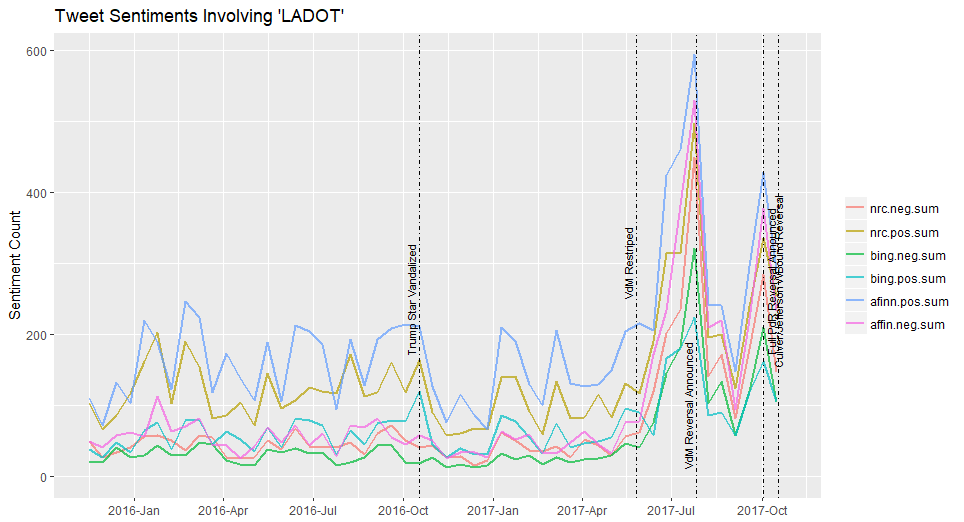
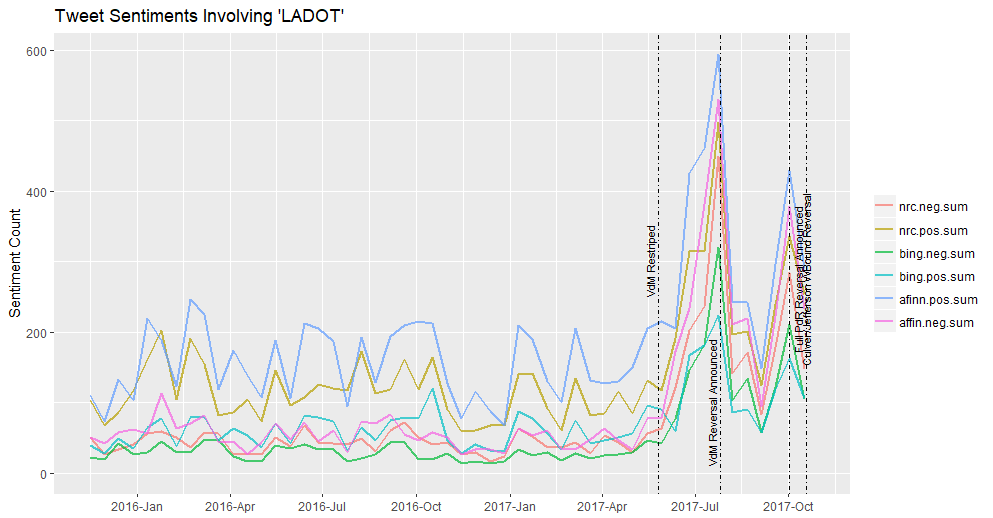
Blog Update
Twitter Sentiment Analysis

diff --git a/_posts/2017-11-03-Twitter-Sentiment-Analysis-of-Westside-Road-Diets.md b/_posts/2017-11-03-Twitter-Sentiment-Analysis-of-Westside-Road-Diets.md
@@ -131,25 +131,109 @@ ggplot(data = monthlysentiment, aes(x = as.Date(month), y = count, group = senti
   geom_vline(aes(xintercept = as.numeric(as.Date("2017-10-2"))), 
              linetype=4, col = "black") +
   annotate("text",x = as.Date("2017-10-26"),y=275, label= "Culver/Jefferson WBound Reversal\n", size=3, angle=90) +  
-  # Culver / Jefferson Westbound Travel Lane Reversal Announced
-  geom_vline(aes(xintercept = as.numeric(as.Date("2016-10-17"))), 
-             linetype=4, col = "black") +
-  annotate("text",x = as.Date("2016-10-17"),y=250, label= "Trump Star Vandalized\n", size=3, angle=90) + 
   ylab("Sentiment Count") + 
   ggtitle("Tweet Sentiments Involving 'LADOT'")
 ```
 
-Running the above code for all three lexicons resulted in this chart:
+Running the above code for all three lexicons resulted in the chart below. 
 
 ![](/images/2017-11-03-Twitter-Sentiment-Analysis-of-Westside-Road-Diets/ladot_BiweeklySentimentScores_Multiple.png)
 
-It is interesting to note from the graphic above that the three lexicons did not always agree on whether the dominant emotion was positive or negative. For example, 
+This chart shows how overall twitter activity related to LADOT correlated with the major announcements of the summer, some of which happened on twitter itself. I added lines to annotate these major events, such as when the project was implemented and when parts of it were reversed. You can see how the lines matched up almost perfectly to the peaks of twitter activity.
 
-#### Takeaways
+The first thing that struck me from looking at the graphic above was that the three lexicons did not always agree on whether the dominant emotion was positive or negative. For example, at the height of the twitterstorms, the Afinn and NRC lexicons generally showed that positive emotion on twitter was stronger than negative emotion. The Bing lexicon, in contrast, showed a cummulative negative emotion that outweighed positive emotions during the event.
 
-* The analysis did a fairly good job of showing how overall twitter activity correlated with the major announcements of the summer, some of which happened on twitter itself. You can see how the lines matched up almost perfectly to the peaks of twitter activity.
+I decided to look only at the results from the Bing lexicon.
 
--look at the types of tweets that were scored differently by the different sentiment analysis tools
+```
+### Sentiment Over Time
+# Calculate Sentiment over Time
+tweets$timestamp <- with_tz(ymd_hms(tweets$timestamp), "America/Chicago")
+monthlysentiment <- tweets %>% 
+  # Group by Month
+  group_by(timestamp = cut(timestamp, breaks="2 weeks")) %>%
+  # For each month, sum totals of each emotion
+  summarise(bing.neg.sum = sum(bing.neg),
+            bing.pos.sum = sum(bing.pos)) %>%
+  # remove first/last (incomplete) months
+  slice(3:n()-2) %>% 
+  # then Use melt to flatten table
+  melt
+names(monthlysentiment) <- c("month", "sentiment", "count")
+
+# Plot Sentiment over Time
+ggplot(data = monthlysentiment, aes(x = as.Date(month), y = count, group = sentiment)) +
+  geom_line(size = 1, alpha = 0.7, aes(color = sentiment)) +
+  ylim(0, NA) +
+  theme(legend.title=element_blank(), axis.title.x = element_blank()) +
+  scale_x_date(breaks = date_breaks("3 months"), 
+               labels = date_format("%Y-%b")) +
+  # VdM Restriped
+  geom_vline(aes(xintercept = as.numeric(as.Date("2017-05-26"))), 
+             linetype=4, col = "black") +
+  annotate("text",x = as.Date("2017-05-26"),y=300, label= "VdM Restriped\n", size=3, angle=90) +
+  # VdM Reversal Announced
+  geom_vline(aes(xintercept = as.numeric(as.Date("2017-07-26"))), 
+             linetype=4, col = "black") +
+  annotate("text",x = as.Date("2017-07-26"),y=100, label= "VdM Reversal Announced\n", size=3, angle=90) +
+  # Full Reversal Announced w/ Garcetti
+  geom_vline(aes(xintercept = as.numeric(as.Date("2017-10-18"))), 
+             linetype=4, col = "black") +
+  annotate("text",x = as.Date("2017-10-18"),y=275, label= "Full PdR Reversal Announced\n", size=3, angle=90) +
+  # Culver / Jefferson Westbound Travel Lane Reversal Announced
+  geom_vline(aes(xintercept = as.numeric(as.Date("2017-10-2"))), 
+             linetype=4, col = "black") +
+  annotate("text",x = as.Date("2017-10-2"),y=275, label= "Culver/Jefferson WBound Reversal\n", size=3, angle=90) +  
+  ylab("Sentiment Count") + 
+  ggtitle("Tweet Sentiments Involving 'LADOT'")
+```
+
+![](/images/2017-11-03-Twitter-Sentiment-Analysis-of-Westside-Road-Diets/ladot_BiweeklySentimentScores_Bing.png)
+
+The output from this lexicon best matches my intuition about what what happening during the Westside projects. But wait - what is that small spike in traffic between 10/17/17 - 10/31/17? Let's explore the positive twitter media bump:
+
+```
+# Let's explore one of the local peaks between 10/17 & 10/31
+explore <- tweets %>%
+  select(bing.pos, text,timestamp) %>%
+  filter(timestamp > "2016-10-17" & timestamp < "2016-10-31")
+```
+
+It turns out that someone masquerading as a LADOT employee took some heavy equipment in the night and smashed the Trump star on the Hollywood Walk of Fame. Ha! See below for the updated chart.
+
+```
+# Plot Sentiment over Time
+ggplot(data = monthlysentiment, aes(x = as.Date(month), y = count, group = sentiment)) +
+  geom_line(size = 1, alpha = 0.7, aes(color = sentiment)) +
+  ylim(0, NA) +
+  theme(legend.title=element_blank(), axis.title.x = element_blank()) +
+  scale_x_date(breaks = date_breaks("3 months"), 
+               labels = date_format("%Y-%b")) +
+  # VdM Restriped
+  geom_vline(aes(xintercept = as.numeric(as.Date("2017-05-26"))), 
+             linetype=4, col = "black") +
+  annotate("text",x = as.Date("2017-05-26"),y=300, label= "VdM Restriped\n", size=3, angle=90) +
+  # VdM Reversal Announced
+  geom_vline(aes(xintercept = as.numeric(as.Date("2017-07-26"))), 
+             linetype=4, col = "black") +
+  annotate("text",x = as.Date("2017-07-26"),y=100, label= "VdM Reversal Announced\n", size=3, angle=90) +
+  # Full Reversal Announced w/ Garcetti
+  geom_vline(aes(xintercept = as.numeric(as.Date("2017-10-18"))), 
+             linetype=4, col = "black") +
+  annotate("text",x = as.Date("2017-10-18"),y=275, label= "Full PdR Reversal Announced\n", size=3, angle=90) +
+  # Culver / Jefferson Westbound Travel Lane Reversal Announced
+  geom_vline(aes(xintercept = as.numeric(as.Date("2017-10-2"))), 
+             linetype=4, col = "black") +
+  annotate("text",x = as.Date("2017-10-2"),y=275, label= "Culver/Jefferson WBound Reversal\n", size=3, angle=90) +  
+  # # Trump Star Vandalized
+  geom_vline(aes(xintercept = as.numeric(as.Date("2016-10-17"))),
+             linetype=4, col = "black") +
+  annotate("text",x = as.Date("2016-10-17"),y=250, label= "Trump Star Vandalized\n", size=3, angle=90) +
+  ylab("Sentiment Count") + 
+  ggtitle("Tweet Sentiments Involving 'LADOT'")
+```
+
+![](/images/2017-11-03-Twitter-Sentiment-Analysis-of-Westside-Road-Diets/ladot_BiweeklySentimentScores_Bing2.png)
 
 #### Future: Machine Learning Methods
-Another method that I wanted to try included (this method using doc2vec)[https://www.r-bloggers.com/twitter-sentiment-analysis-with-machine-learning-in-r-using-doc2vec-approach/?utm_source=feedburner&utm_medium=email&utm_campaign=Feed%3A+RBloggers+%28R+bloggers%29]. The previous approach that the author took was a word-based approach, where the final 'sentiment' is calculated based on the difference of positive and negative words. The author updated the approach with a machine-learning method with a training set where the tweets were classified in their entirety. However, I lowered my expectations after reading some of the comments on the original blog post. I'll give the machine learning methods a shot in the future, but for now, I am satisfied with my lexicon-based work.
+Another method that I wanted to try included (this method using doc2vec)[https://www.r-bloggers.com/twitter-sentiment-analysis-with-machine-learning-in-r-using-doc2vec-approach/?utm_source=feedburner&utm_medium=email&utm_campaign=Feed%3A+RBloggers+%28R+bloggers%29]. The previous approach that the author took was a word-based approach, where the final 'sentiment' is calculated based on the difference of positive and negative words. The author updated the approach with a machine-learning method with a training set where the tweets were classified in their entirety. However, I lowered my expectations after reading some of the comments on the original blog post about it not performing any better than the lexicon-based methods. I'll give the machine learning methods a shot in the future, but for now, I am satisfied with my lexicon-based work.
